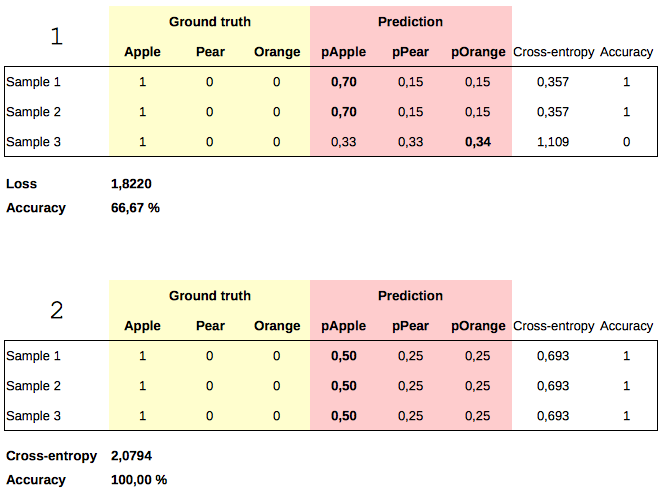
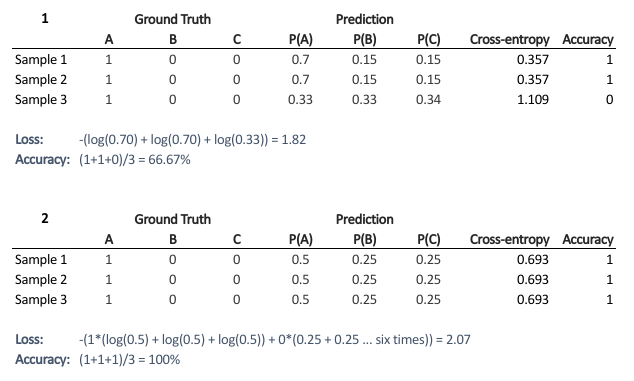
chore: Add own image for lossVsAcc

diff --git a/_posts/2018-12-07-loss-vs-accuracy.md b/_posts/2018-12-07-loss-vs-accuracy.md
@@ -34,6 +34,6 @@ Given two models: one with high accuracy and high loss and other with low accura
 
 
 **References:**  
-1. [Why loss and accuracy metrics conflict (image source)](http://www.jussihuotari.com/2018/01/17/why-loss-and-accuracy-metrics-conflict/)
+1. [Why loss and accuracy metrics conflict](http://www.jussihuotari.com/2018/01/17/why-loss-and-accuracy-metrics-conflict/)
 2. [Cross Validated - stackexchange](https://stats.stackexchange.com/a/256554/194589)  
 3. [Cross Entropy in PyTorch - StackOverFlow](https://stackoverflow.com/questions/49390842/cross-entropy-in-pytorch)
